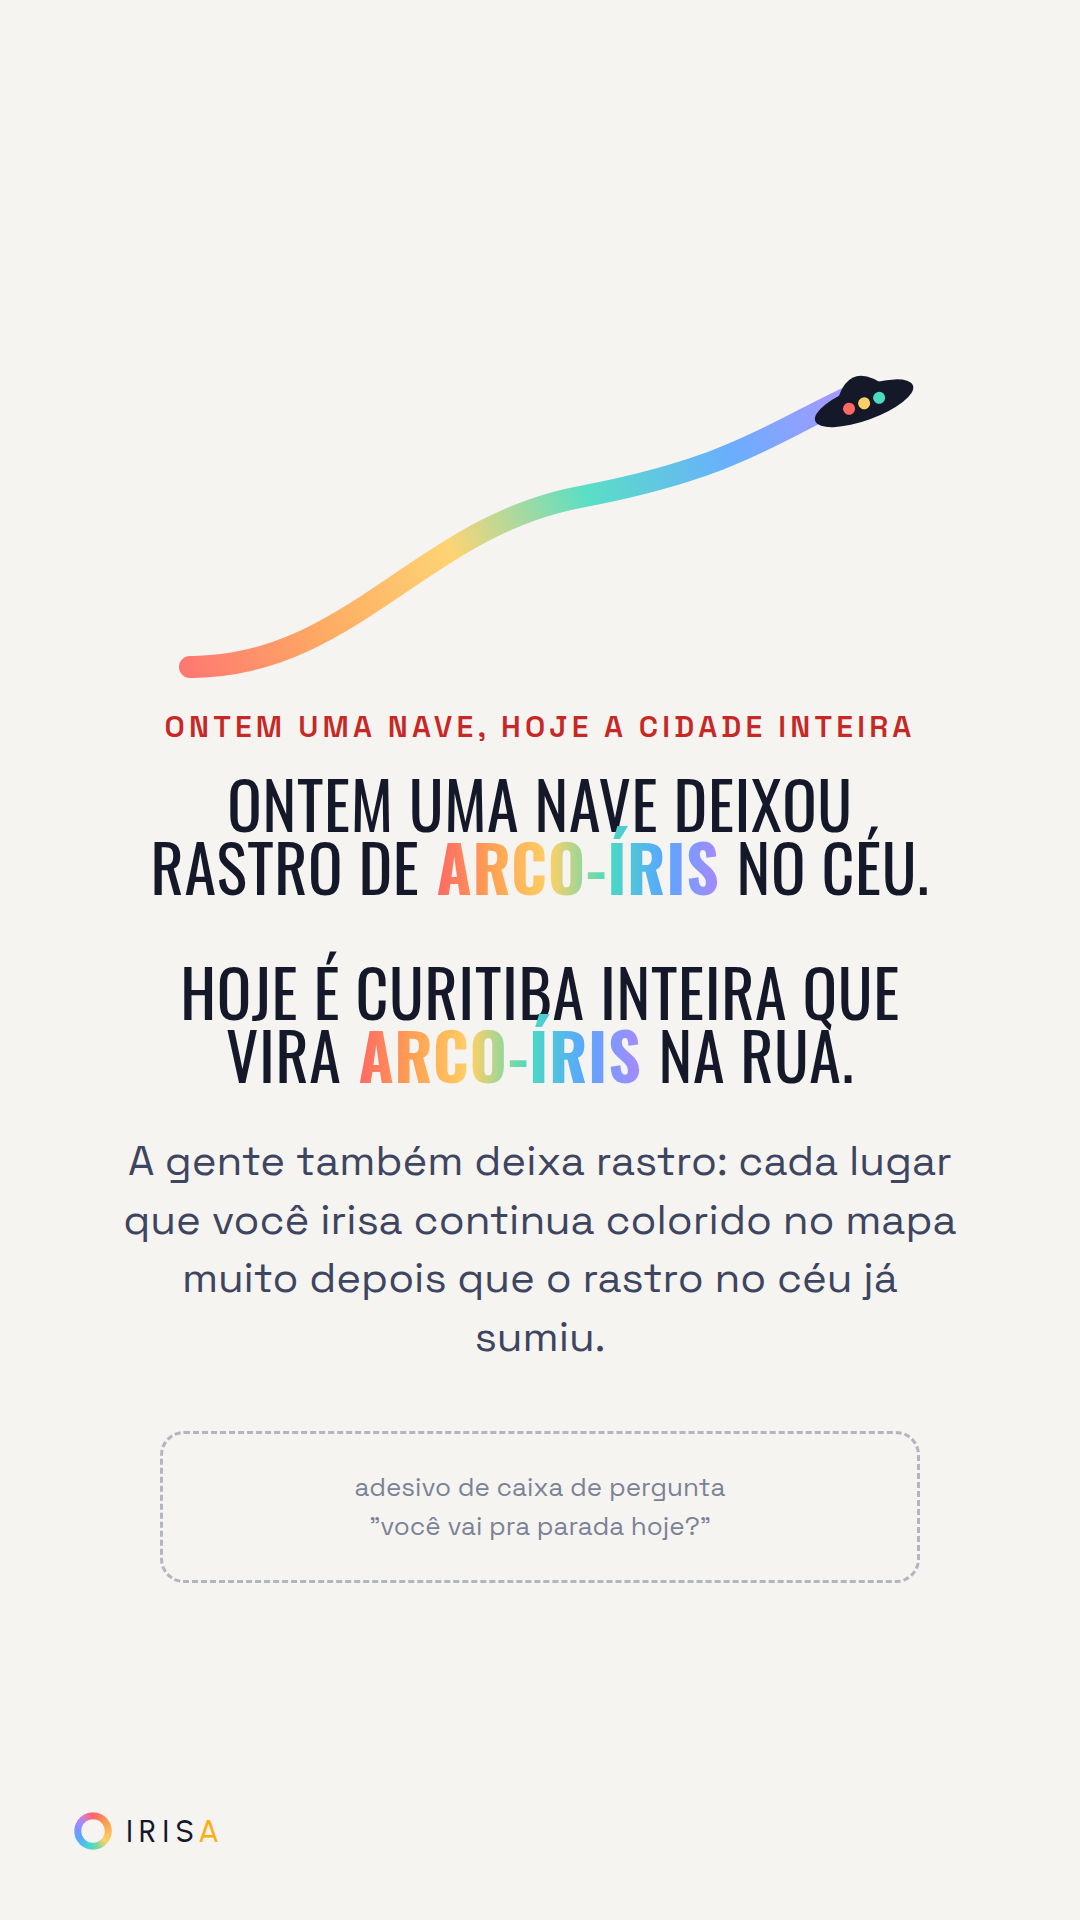
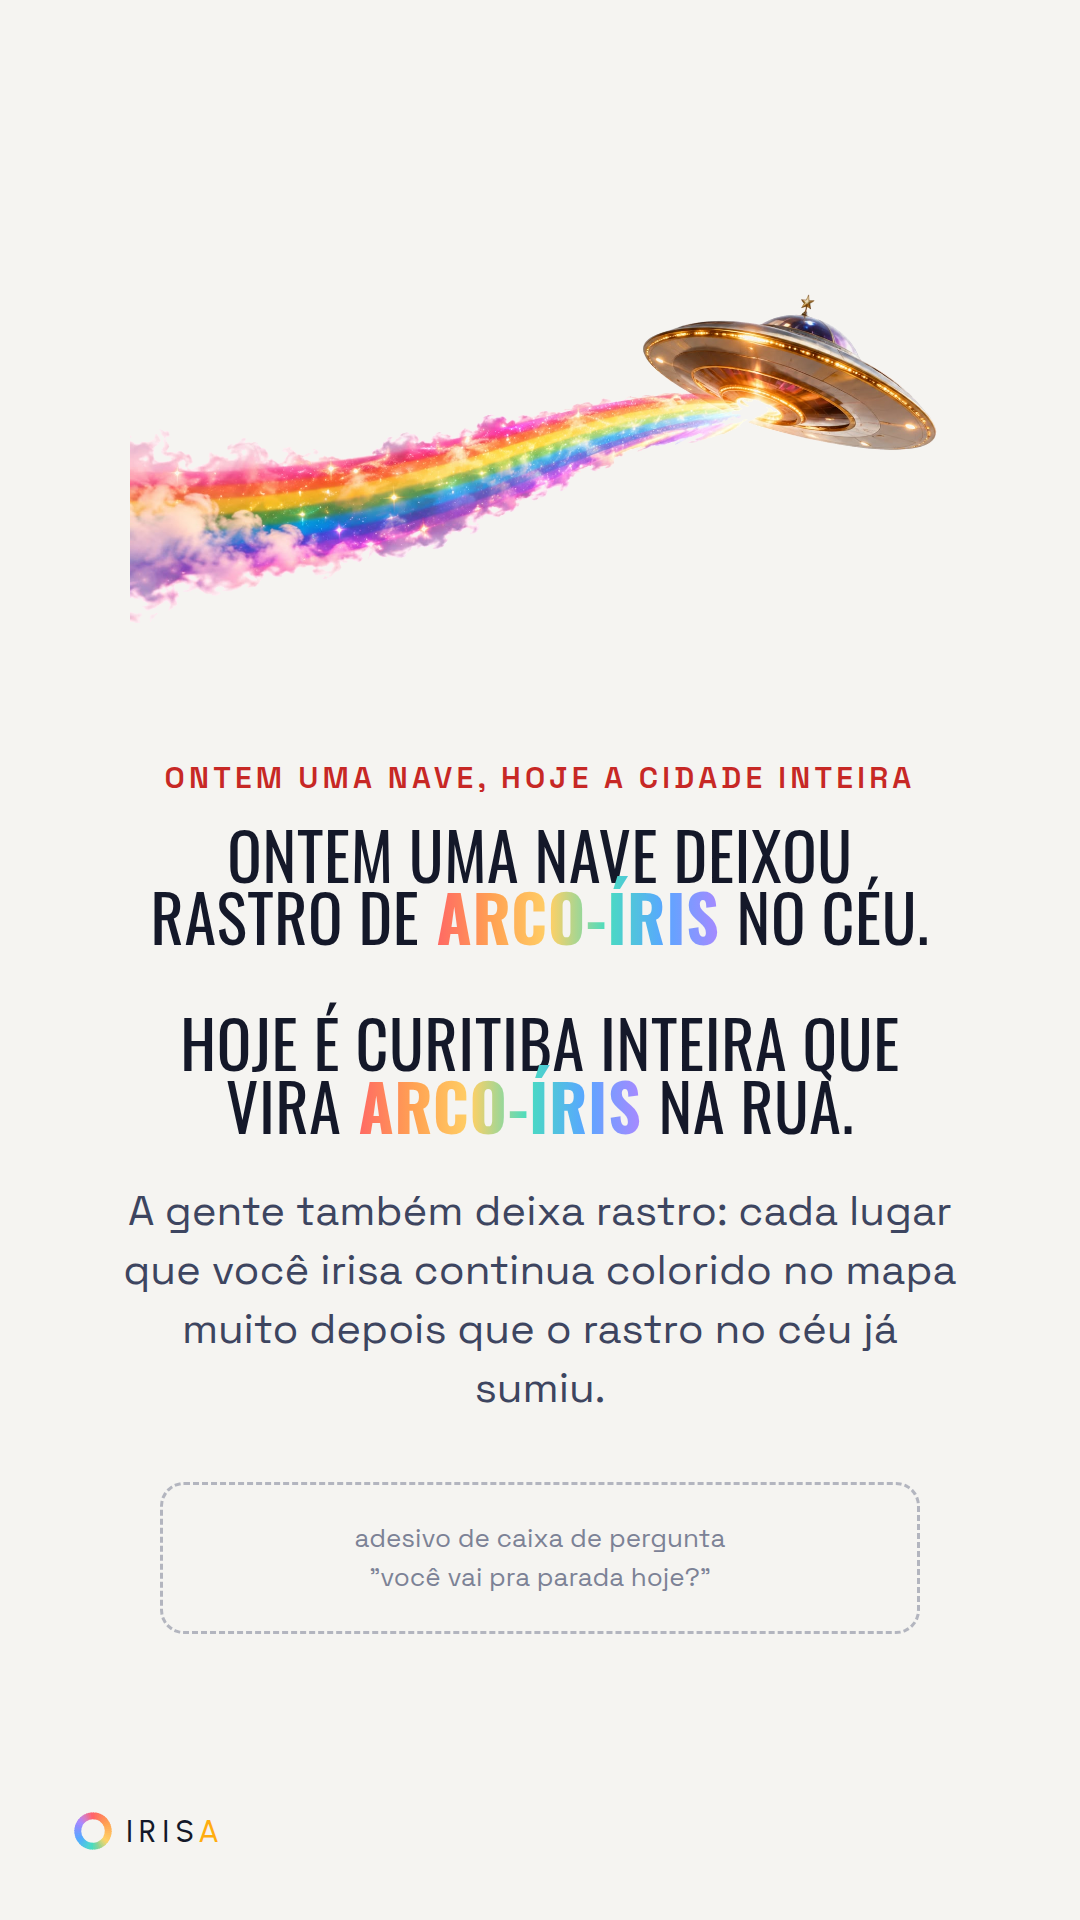
Story de hoje: troca a ilustração SVG pela nave/rastro gerada por IA

Changed region(s): [[0.1222, 0.1562, 0.8861, 0.8438], [0.825, 0.75, 0.8556, 0.7812]]

diff --git a/docs/story-arcoiris.html b/docs/story-arcoiris.html
@@ -39,26 +39,7 @@ body{font-family:var(--body);color:var(--ink);display:flex;flex-direction:column
 <section class="sl story">
   <div class="bg"></div>
   <div class="c">
-    <svg width="760" height="360" viewBox="0 0 760 360" style="display:block;margin:0 auto 10px" aria-hidden="true">
-      <defs>
-        <linearGradient id="trailg" x1="20" y1="330" x2="700" y2="50" gradientUnits="userSpaceOnUse">
-          <stop offset="0" style="stop-color:var(--coral)"/>
-          <stop offset=".2" style="stop-color:var(--orange)"/>
-          <stop offset=".4" style="stop-color:var(--yellow)"/>
-          <stop offset=".6" style="stop-color:var(--turq)"/>
-          <stop offset=".8" style="stop-color:var(--blue)"/>
-          <stop offset="1" style="stop-color:var(--lilac)"/>
-        </linearGradient>
-      </defs>
-      <path d="M30 330 C 190 330, 260 190, 420 160 S 620 90, 700 55" fill="none" stroke="url(#trailg)" stroke-width="22" stroke-linecap="round" opacity=".9"/>
-      <g transform="translate(700,55) rotate(-20)">
-        <ellipse cx="0" cy="12" rx="52" ry="17" fill="var(--ink)"/>
-        <path d="M-28 6 Q0 -38 28 6 Z" fill="var(--ink)"/>
-        <circle cx="-16" cy="12" r="6" fill="var(--coral)"/>
-        <circle cx="0" cy="12" r="6" fill="var(--yellow)"/>
-        <circle cx="16" cy="12" r="6" fill="var(--turq)"/>
-      </g>
-    </svg>
+    <img src="nave-arcoiris.png" alt="" style="width:820px;max-width:100%;display:block;margin:0 auto 10px">
     <div class="eyebrow" style="color:var(--coralInk)">ontem uma nave, hoje a cidade inteira</div>
     <p class="big c" style="font-size:64px;margin:26px auto 46px;max-width:820px">
       <span class="lt">Ontem uma nave deixou rastro de</span> <span class="rainbow">arco-íris</span> <span class="lt">no céu.</span><br><br>
